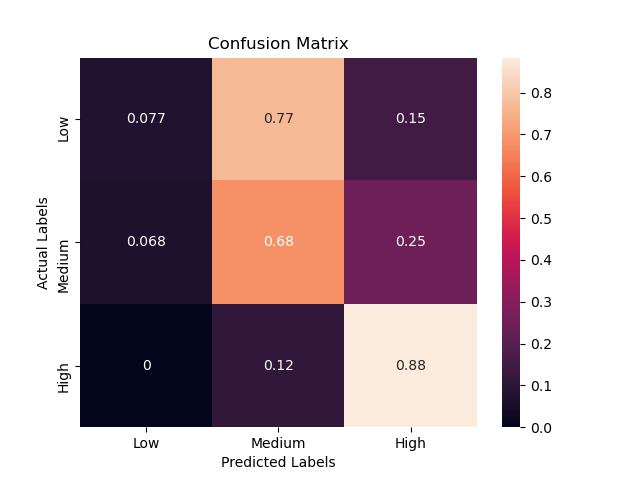
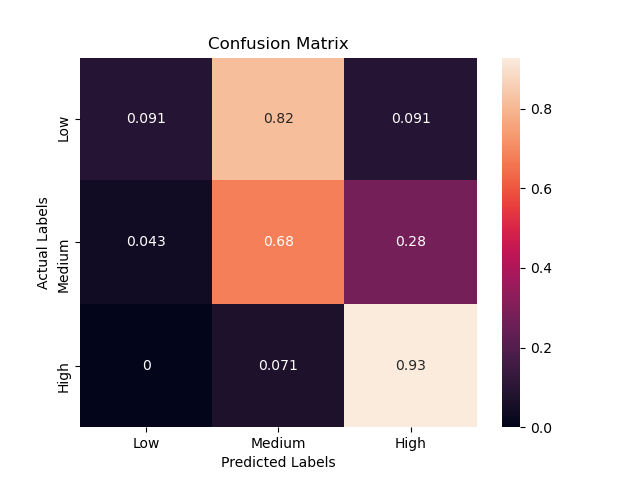
vis and conf and test for 75k

diff --git a/models/transfer_models.py b/models/transfer_models.py
@@ -334,19 +334,15 @@ def test_result(img_size, batch_folder, epochs=100, forced_loc=None, base_name='
     sz = DATA_SET_SIZES[batch_folder]
     num_batches = int((sz * 0.1) // 100)
     corrects = 0
-    data_corrects = 0
     seen = 0
     for i in range(num_batches + 1):
         x, y = next(val_gen())
         pred = model.predict(x)
         pred = np.argmax(pred, axis=1)
         corrects += np.sum(y == pred)
-        data_corrects += np.sum(y == y)
         seen += len(y)
     acc = corrects / seen
-    data_acc = data_corrects / seen
     print('test acc of {}: {}'.format(name, acc))
-    print('data acc of {}'.format(data_acc))
 
 
 def main():
@@ -369,20 +365,25 @@ def main():
         # test_result(img_size, bf, epochs=100, forced_loc='AZ', base_name='2d_60k_FINAL_dropout')
 
     # for bf in batch_folders:
-    #     # confusion(img_size=img_size, batch_folder=bf, epochs=100, base_name='2d_60k_FINAL_dropout')
+    #     confusion(img_size=img_size, batch_folder=bf, epochs=100, base_name='2d_60k_FINAL_dropout')
     #     saliency(img_size, bf, epochs=100, forced_loc='AZ', base_name='2d_60k_FINAL_dropout')
         # test_result(img_size, bf, epochs=100, base_name='2d_FINAL_dropout')
 
     # for bf in batch_folders:
-    #     # confusion(img_size=img_size, batch_folder=bf, epochs=100, base_name='2d_FINAL_dropout')
+    #     confusion(img_size=img_size, batch_folder=bf, epochs=100, base_name='2d_FINAL_dropout')
     #     saliency(img_size, bf, epochs=100, base_name='2d_FINAL_dropout')
         # test_result(img_size, bf, epochs=100, base_name='2d_FINAL_dropout')
 
     
+    # for bf in batch_folders:
+    #     confusion(img_size=img_size, batch_folder=bf, epochs=100, base_name='2d_FINAL')
+        # saliency(img_size, bf, epochs=100, base_name='2d_FINAL')
+        # test_result(img_size, bf, epochs=100, base_name='2d_FINAL')
+
     for bf in batch_folders:
-        # confusion(img_size=img_size, batch_folder=bf, epochs=100, base_name='2d_FINAL')
-        saliency(img_size, bf, epochs=100, base_name='2d_FINAL')
-        test_result(img_size, bf, epochs=100, base_name='2d_FINAL')
+        # confusion(img_size=img_size, batch_folder=bf, epochs=100, base_name='2d_75k_FINAL')
+        # saliency(img_size, bf, epochs=100, forced_loc='ZZ', base_name='2d_75k_FINAL')
+        test_result(img_size, bf, epochs=100, forced_loc='ZZ', base_name='2d_75k_FINAL')
 
 
 
